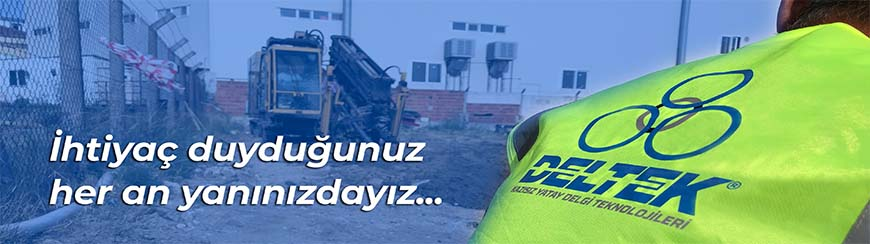
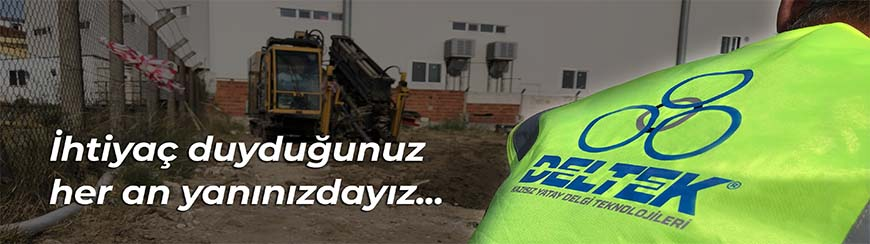
Bant yazisini biraz asagi al
Blogun alt bosluğu 7rem -> 4rem; 1920px'te yazi 48px asagi indi.
Blok bandin %30-81.4 araligindaydi, simdi %36-87.4.

Dikey yer .tecrube__y'nin margin-bottom'undan ayarlaniyor: kucultmek
asagi alir, buyutmek yukari.

Olcum: 1920'de alt bosluk 148 -> 99px, 390'da 32px; tasma yok.

diff --git a/src/styles/global.css b/src/styles/global.css
@@ -238,7 +238,9 @@ section[id] { scroll-margin-top: 150px; }
   width: clamp(120px, 17vw, 330px); height: auto; opacity: .5; }
 /* Üç satır, örnekteki ölçüde: 1920px'te ~111px punto (5.8vw).
    Yazı %78 saydam — arkasındaki fotoğraf harflerin içinden görünüyor. */
-.tecrube__y { margin: auto auto clamp(1.2rem, 7vw, 7rem); text-align: center;
+/* Bloğun dikey yeri alt boşlukla ayarlanır: küçültmek yazıyı AŞAĞI alır.
+   7rem idi, 4rem'e indirildi (1920px'te 48px aşağı). */
+.tecrube__y { margin: auto auto clamp(.8rem, 3.4vw, 4rem); text-align: center;
   font-family: var(--f-vurgu); font-weight: 800;
   font-size: clamp(1.6rem, 5.8vw, 7rem); line-height: 1.07;
   letter-spacing: -.045em; text-transform: uppercase;
